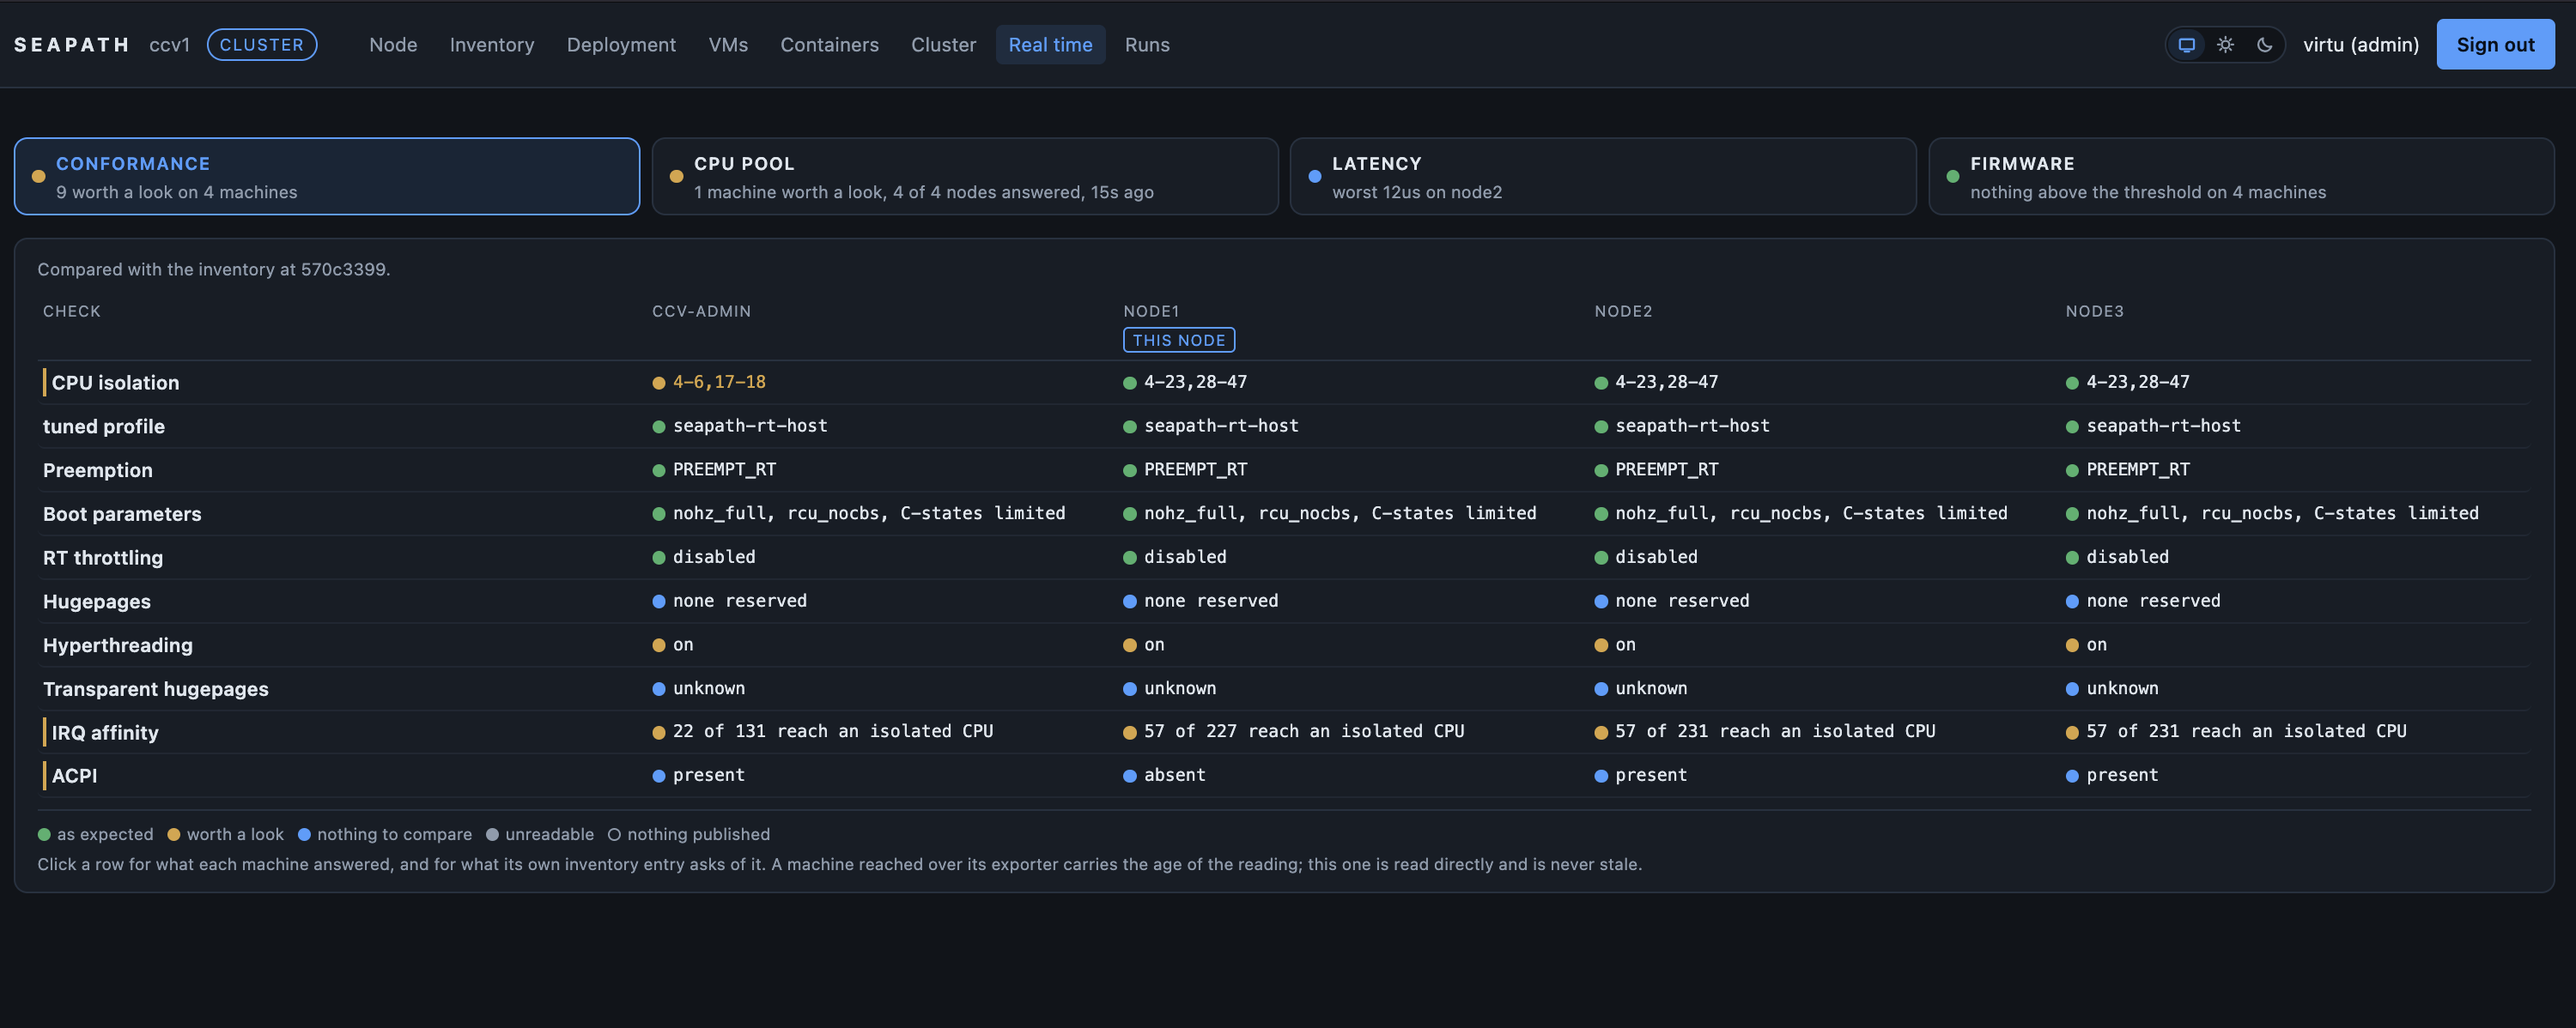
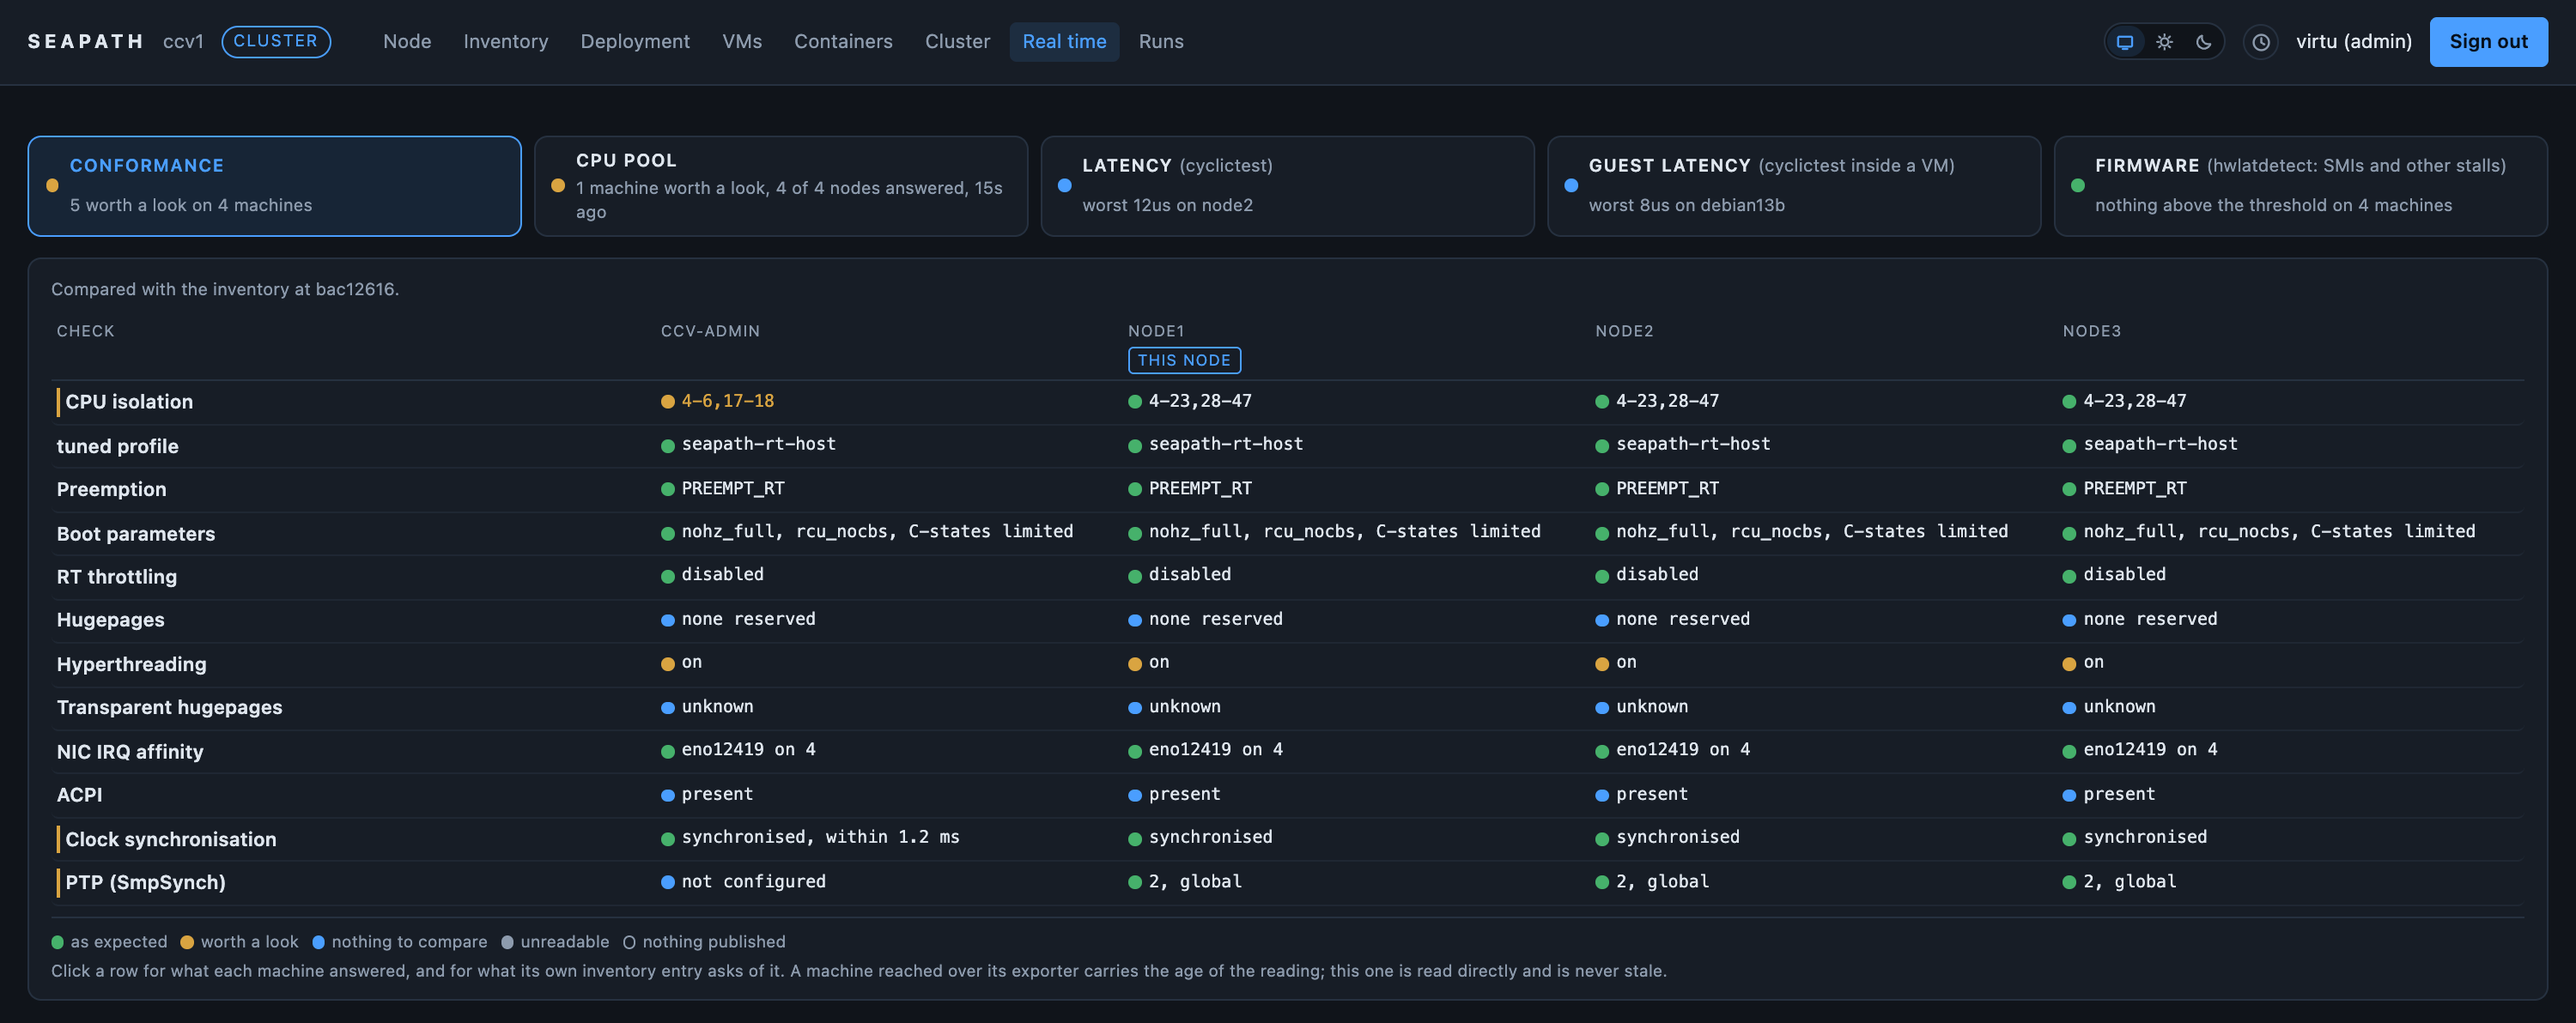
docs: refresh Real time screenshots, add the guest latency view
The Real time page now carries five views, and the tab bar names the tool
behind each measurement (cyclictest, hwlatdetect). The README screenshots
predated both changes: they showed four tabs and no tool names.

Recapture the four existing views and add the fifth, Guest latency
(cyclictest inside a VM), which the prose already described but no image
showed. Renumber Firmware to 11-5 so the file order follows the tab order,
Conformance, CPU pool, Latency, Guest latency, Firmware, and update the
Conformance caption from four tabs to five.

diff --git a/README.md b/README.md
@@ -226,7 +226,7 @@ stays an inventory change and a run.
 
 ![The Cluster page, Storage: Ceph health and capacity, over the monitors, the managers and the OSDs](img/10-cluster-storage.png)
 
-![The Real time page, Conformance: the four view tabs and their summaries, over one row per check and one column per machine](img/11-1-realtime-conformance.png)
+![The Real time page, Conformance: the five view tabs and their summaries, over one row per check and one column per machine](img/11-1-realtime-conformance.png)
 
 **Real time** answers whether the machines came out of a convergence with the
 tuning they were told to have. One row per check, one column per machine: each
@@ -263,7 +263,7 @@ drawn, so switching asks the machines for nothing. See D24, D26, D27 and D28 in
 
 ![The Real time page, Latency: what cyclictest measured on each machine, over the form that launches the run](img/11-3-realtime-latency.png)
 
-![The Real time page, Firmware: what hwlatdetect found on each machine, over the form that launches the run](img/11-4-realtime-firmware.png)
+![The Real time page, Firmware: what hwlatdetect found on each machine, over the form that launches the run](img/11-5-realtime-firmware.png)
 
 Latency and Firmware carry a form, which the other two views have no use for.
 Reading what a machine publishes costs one HTTP GET; a measurement asks the
@@ -291,6 +291,8 @@ copy: an address, that key in the account Ansible connects as with sudo, and
 `rt-tests` installed. This service installs none of the three, because writing
 inside a VM would be configuring a machine behind Ansible's back. See D41 in
 [docs/decisions.md](docs/decisions.md).
+
+![The Real time page, Guest latency: what cyclictest measured inside one guest, over the form and this node's public key that make a guest measurable](img/11-4-realtime-guest-latency.png)
 
 ![The Runs page: the history on the left, one run and its task stream on the right](img/12-runs.png)
 
